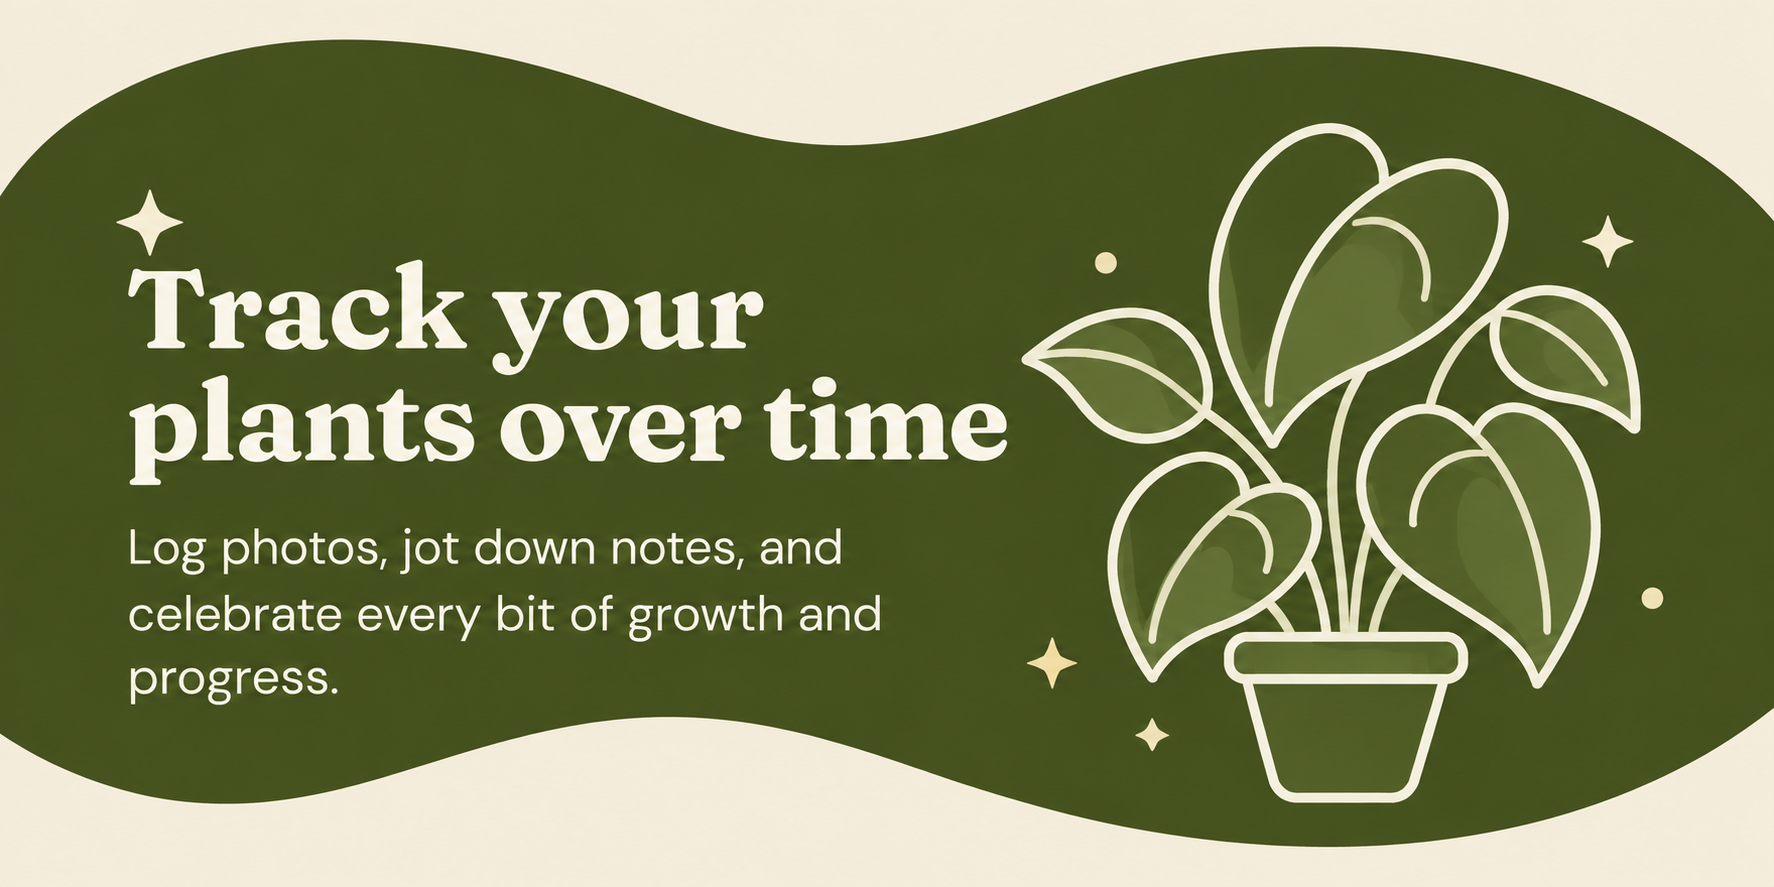
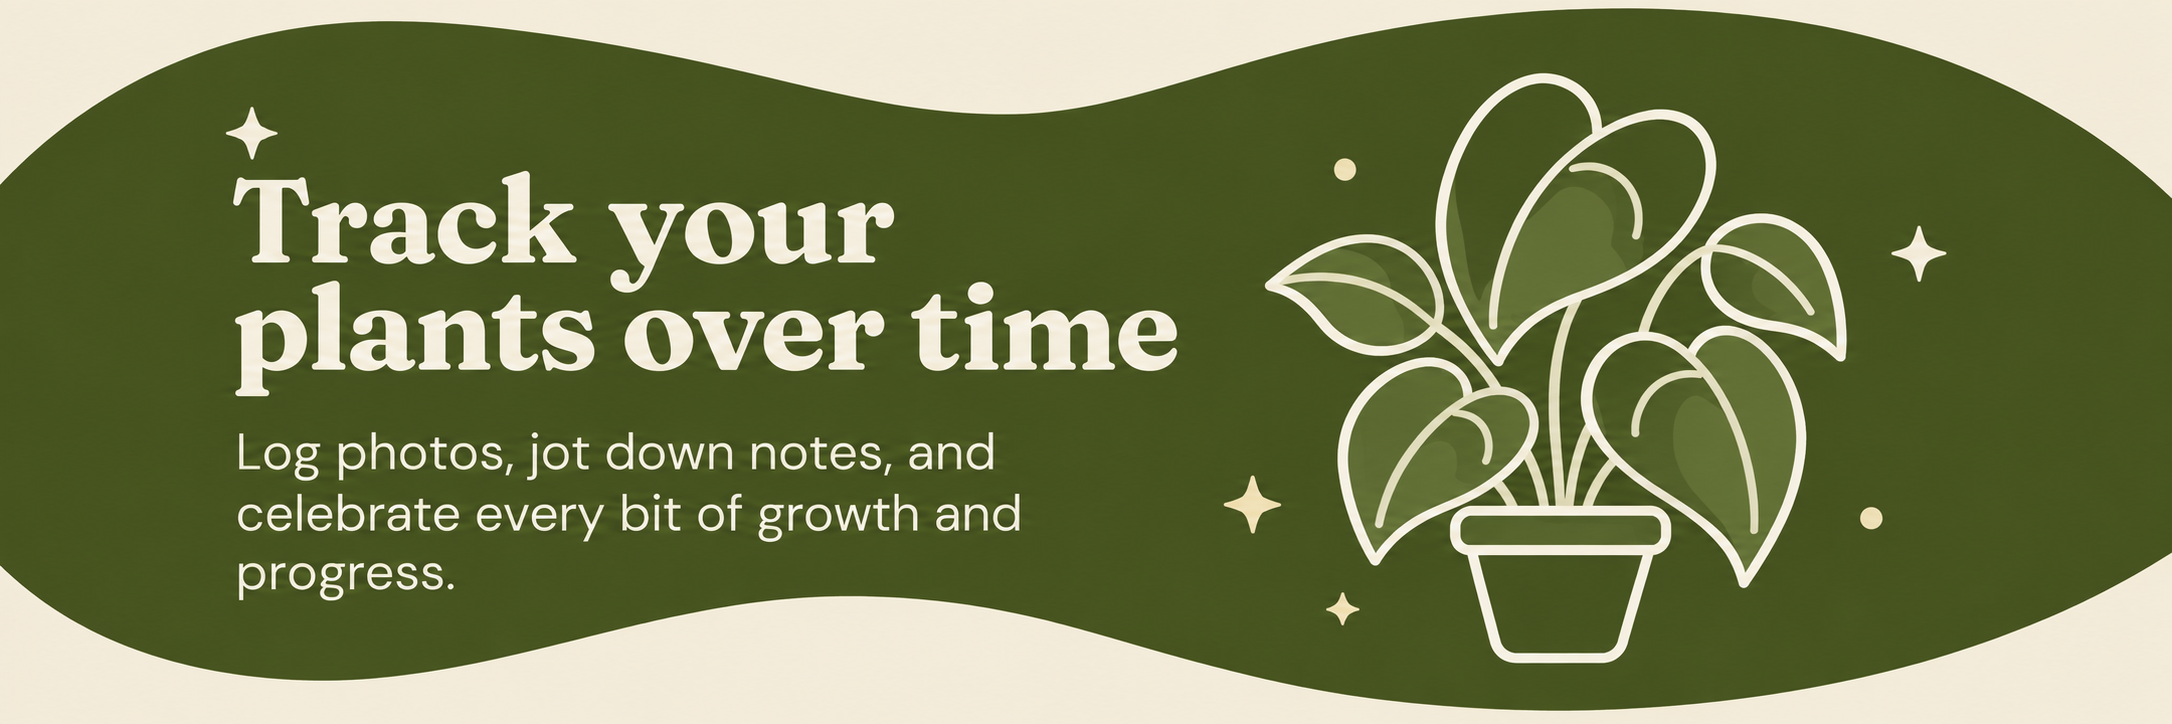
Add files via upload

diff --git a/index.html b/index.html
@@ -14,8 +14,8 @@
 <link rel="manifest" href="manifest.webmanifest">
 <link rel="apple-touch-icon" href="icon-192.png">
 
-<script src="cache-cleaner.js?v=10"></script>
-<link rel="stylesheet" href="style.css?v=10">
+<script src="cache-cleaner.js?v=11"></script>
+<link rel="stylesheet" href="style.css?v=11">
 </head>
 <body>
 <div class="app-shell">
@@ -27,13 +27,13 @@
 <main>
 <section id="homeView" class="view active page">
   <div class="home-banner-wrap">
-    <img class="home-banner-image" src="home-banner.png?v=10" alt="Track your plants over time — Log photos, jot down notes, and celebrate every bit of growth and progress.">
+    <img class="home-banner-image" src="home-banner.png?v=11" alt="Track your plants over time — Log photos, jot down notes, and celebrate every bit of growth and progress.">
   </div>
 
   <div class="stats">
-    <div class="stat"><div class="stat-icon"><img src="stat-plants.png?v=10" alt=""></div><strong id="statPlants">0</strong><span>Plants</span></div>
-    <div class="stat"><div class="stat-icon"><img src="stat-props.png?v=10" alt=""></div><strong id="statProps">0</strong><span>Props</span></div>
-    <div class="stat"><div class="stat-icon"><img src="stat-rooted.png?v=10" alt=""></div><strong id="statRooted">0</strong><span>Rooted</span></div>
+    <div class="stat"><div class="stat-icon"><img src="stat-plants.png?v=11" alt=""></div><strong id="statPlants">0</strong><span>Plants</span></div>
+    <div class="stat"><div class="stat-icon"><img src="stat-props.png?v=11" alt=""></div><strong id="statProps">0</strong><span>Props</span></div>
+    <div class="stat"><div class="stat-icon"><img src="stat-rooted.png?v=11" alt=""></div><strong id="statRooted">0</strong><span>Rooted</span></div>
   </div>
 
   <div class="section-head"><h3>Recently growing</h3><button class="text-btn" data-go="plantsView">See all ›</button></div>
@@ -56,7 +56,7 @@
 
 <section id="plantsView" class="view page">
   <div class="page-banner-wrap plants-banner-wrap">
-    <img class="page-banner-image" src="plants-banner.png?v=10" alt="Plant collection — All your plants in one happy place. Browse, search, and keep them thriving.">
+    <img class="page-banner-image" src="plants-banner.png?v=11" alt="Plant collection — All your plants in one happy place. Browse, search, and keep them thriving.">
   </div>
   <div class="banner-search">
     <div class="search"><span>⌕</span><input id="plantSearch" placeholder="Search your plants"></div>
@@ -70,117 +70,8 @@
 </section>
 
 <section id="propsView" class="view page">
-  <div class="hero-wave page-hero props-hero">
-<svg class="hero-art" viewBox="0 0 430 320" preserveAspectRatio="none" aria-hidden="true">
-  <defs>
-    <clipPath id="heroClip">
-      <path d="
-        M0,58
-        C55,27 104,34 150,52
-        C199,71 244,64 286,44
-        C333,21 369,35 430,75
-        L430,250
-        C387,274 343,274 300,264
-        C250,252 207,245 164,251
-        C112,258 66,286 0,305
-        Z"/>
-    </clipPath>
-  </defs>
-
-  <path class="hero-blob" d="
-    M0,58
-    C55,27 104,34 150,52
-    C199,71 244,64 286,44
-    C333,21 369,35 430,75
-    L430,250
-    C387,274 343,274 300,264
-    C250,252 207,245 164,251
-    C112,258 66,286 0,305
-    Z"/>
-
-  <g clip-path="url(#heroClip)">
-    <path class="rainbow r1" d="
-      M278,30
-      C326,28 357,47 381,70
-      C401,90 416,96 438,101
-      L438,145
-      C405,137 381,123 357,99
-      C335,77 317,68 293,66
-      C278,65 268,68 258,73
-      C264,57 271,42 278,30 Z"/>
-    <path class="rainbow r2" d="
-      M304,33
-      C338,38 363,54 385,75
-      C403,92 418,99 438,103
-      L438,133
-      C413,127 395,116 376,98
-      C357,79 340,70 319,68
-      C308,67 300,69 292,72
-      C297,58 301,45 304,33 Z"/>
-    <path class="rainbow r3" d="
-      M330,40
-      C355,46 374,59 392,77
-      C408,93 421,99 438,103
-      L438,124
-      C420,119 406,111 391,96
-      C376,81 362,74 346,71
-      C338,70 331,71 324,73
-      C326,61 328,50 330,40 Z"/>
-    <path class="rainbow r4" d="
-      M355,48
-      C373,55 388,65 401,79
-      C413,91 425,98 438,102
-      L438,116
-      C424,111 414,104 403,93
-      C391,81 381,76 368,73
-      C362,72 357,73 352,74
-      C353,65 354,56 355,48 Z"/>
-  </g>
-
-  <g class="hero-flower" transform="translate(340 205)">
-    <ellipse rx="12" ry="31" transform="rotate(0) translate(0 -26)"/>
-    <ellipse rx="12" ry="31" transform="rotate(45) translate(0 -26)"/>
-    <ellipse rx="12" ry="31" transform="rotate(90) translate(0 -26)"/>
-    <ellipse rx="12" ry="31" transform="rotate(135) translate(0 -26)"/>
-    <ellipse rx="12" ry="31" transform="rotate(180) translate(0 -26)"/>
-    <ellipse rx="12" ry="31" transform="rotate(225) translate(0 -26)"/>
-    <ellipse rx="12" ry="31" transform="rotate(270) translate(0 -26)"/>
-    <ellipse rx="12" ry="31" transform="rotate(315) translate(0 -26)"/>
-    <circle r="18" class="flower-center"/>
-  </g>
-
-  <g class="hero-sparkles">
-    <path d="M46 106 l3 8 8 3-8 3-3 8-3-8-8-3 8-3z"/>
-    <circle cx="258" cy="151" r="3"/>
-    <circle cx="291" cy="216" r="3"/>
-    <path d="M392 240 l3 8 8 3-8 3-3 8-3-8-8-3 8-3z"/>
-  </g>
-</svg>
-
-    <div class="hero-visual props-visual" aria-hidden="true">
-      <svg viewBox="0 0 220 180">
-        <rect class="surface" x="16" y="136" width="188" height="10" rx="5"/>
-        <g class="jar-group">
-          <rect class="jar rim" x="36" y="44" width="66" height="16" rx="8"/>
-          <path class="jar glass" d="M42 56 H96 L92 133 Q91 144 80 144 H58 Q47 144 46 133 Z"/>
-          <path class="water" d="M47 102 H91 L89 132 Q88 139 80 139 H58 Q50 139 49 132 Z"/>
-          <path class="root" d="M67 86 C65 98 68 110 65 122 M74 88 C78 98 76 112 80 126 M59 92 C55 101 56 113 60 124"/>
-          <path class="stem" d="M70 46 C70 61 70 74 69 87"/>
-          <path class="leaf" d="M57 54 C68 42 84 43 90 56 C95 67 88 79 76 80 C62 81 51 70 52 60 C53 58 54 56 57 54 Z"/>
-        </g>
-        <g class="cup-group">
-          <ellipse class="cup top" cx="157" cy="64" rx="28" ry="8"/>
-          <path class="cup body" d="M129 64 H185 L178 133 Q177 142 166 142 H148 Q137 142 136 133 Z"/>
-          <path class="moss" d="M137 93 C143 84 149 89 154 95 C160 85 166 89 170 95 C175 87 181 90 183 99 V133 H141 Z"/>
-          <path class="sprout stem" d="M158 95 C157 84 159 73 164 64"/>
-          <path class="sprout leaf1" d="M149 76 C158 71 167 74 170 82 C163 86 155 85 149 76 Z"/>
-          <path class="sprout leaf2" d="M165 69 C173 64 181 66 185 74 C177 78 170 77 165 69 Z"/>
-        </g>
-      </svg>
-    </div>
-    <div class="sparkles">✦ ✦</div>
-    <h2>Propagation station</h2>
-    <p>Grow new roots, grow your collection.</p>
+  <div class="page-banner-wrap props-banner-wrap">
+    <img class="page-banner-image" src="props-banner.png?v=11" alt="Propagation station — Follow every cutting from snip to new plant.">
   </div>
   <div class="controls" id="propFilters">
     <button class="chip active" data-filter="all">All</button>
@@ -195,44 +86,8 @@
 
 
 <section id="tcView" class="view page">
-  <div class="hero-wave page-hero tc-hero">
-    <svg class="hero-art" viewBox="0 0 430 320" preserveAspectRatio="none" aria-hidden="true">
-      <path class="hero-blob" d="M0,58 C55,27 104,34 150,52 C199,71 244,64 286,44 C333,21 369,35 430,75 L430,250 C387,274 343,274 300,264 C250,252 207,245 164,251 C112,258 66,286 0,305 Z"/>
-      <g class="hero-flower" transform="translate(340 205)">
-        <ellipse rx="12" ry="31" transform="rotate(0) translate(0 -26)"/><ellipse rx="12" ry="31" transform="rotate(45) translate(0 -26)"/>
-        <ellipse rx="12" ry="31" transform="rotate(90) translate(0 -26)"/><ellipse rx="12" ry="31" transform="rotate(135) translate(0 -26)"/>
-        <ellipse rx="12" ry="31" transform="rotate(180) translate(0 -26)"/><ellipse rx="12" ry="31" transform="rotate(225) translate(0 -26)"/>
-        <ellipse rx="12" ry="31" transform="rotate(270) translate(0 -26)"/><ellipse rx="12" ry="31" transform="rotate(315) translate(0 -26)"/>
-        <circle r="18" class="flower-center"/>
-      </g>
-    </svg>
-    <div class="hero-visual tc-visual" aria-hidden="true">
-      <svg viewBox="0 0 220 180">
-        <g class="agar-cup">
-          <ellipse class="cup top" cx="58" cy="60" rx="26" ry="8"/>
-          <path class="cup body" d="M32 60 H84 L80 116 Q79 126 69 126 H47 Q37 126 36 116 Z"/>
-          <path class="agar" d="M37 102 C46 98 56 101 65 96 C72 93 76 93 79 94 V115 Q78 121 70 121 H48 Q40 121 39 115 Z"/>
-          <path class="tc-sprout" d="M56 98 C55 86 57 75 62 68"/>
-          <path class="tc-leaf1" d="M46 79 C55 73 63 76 66 84 C58 88 50 87 46 79 Z"/>
-          <path class="tc-leaf2" d="M60 73 C68 67 76 69 80 78 C72 81 65 80 60 73 Z"/>
-        </g>
-        <g class="dome">
-          <rect class="tray" x="108" y="116" width="86" height="20" rx="10"/>
-          <path class="dome-cover" d="M114 116 C116 82 132 58 151 58 H165 C184 58 199 82 201 116 Z"/>
-          <rect class="cell" x="122" y="95" width="20" height="22" rx="6"/>
-          <rect class="cell" x="146" y="95" width="20" height="22" rx="6"/>
-          <rect class="cell" x="170" y="95" width="20" height="22" rx="6"/>
-          <path class="mini-leaf" d="M130 106 C134 99 141 101 143 108 C137 111 133 111 130 106 Z"/>
-          <path class="mini-leaf" d="M154 106 C158 99 165 101 167 108 C161 111 157 111 154 106 Z"/>
-          <path class="mini-leaf" d="M178 106 C182 99 189 101 191 108 C185 111 181 111 178 106 Z"/>
-          <circle class="dew" cx="128" cy="78" r="3"/>
-          <circle class="dew" cx="158" cy="70" r="3"/>
-          <circle class="dew" cx="182" cy="84" r="3"/>
-        </g>
-      </svg>
-    </div>
-    <h2>Tissue culture lab</h2>
-    <p>Track each plant from flask to fully acclimated.</p>
+  <div class="page-banner-wrap tc-banner-wrap">
+    <img class="page-banner-image" src="tc-banner.png?v=11" alt="Tissue culture lab — Track each plant from flask to fully acclimated.">
   </div>
   <div class="tc-summary">
     <div><strong id="tcTotal">0</strong><span>Total</span></div>
@@ -251,7 +106,7 @@
 
 <section id="growthView" class="view page">
   <div class="page-banner-wrap growth-banner-wrap">
-    <img class="page-banner-image" src="growth-banner.png?v=10" alt="Growth timeline — A visual journey of your plant’s progress over time.">
+    <img class="page-banner-image" src="growth-banner.png?v=11" alt="Growth timeline — A visual journey of your plant’s progress over time.">
   </div>
   <div id="timelineList" class="timeline"></div>
   <div class="quote">Every leaf tells a story.</div>
@@ -261,11 +116,11 @@
 </main>
 
 <nav class="bottom-nav">
-  <button class="nav-item active" data-view="homeView"><span class="nav-icon"><img src="nav-home.png?v=10" alt=""></span><span class="nav-label">Home</span></button>
-  <button class="nav-item" data-view="plantsView"><span class="nav-icon"><img src="nav-plants.png?v=10" alt=""></span><span class="nav-label">Plants</span></button>
-  <button class="nav-item" data-view="propsView"><span class="nav-icon"><img src="nav-props.png?v=10" alt=""></span><span class="nav-label">Props</span></button>
-  <button class="nav-item" data-view="tcView"><span class="nav-icon"><img src="nav-tc.png?v=10" alt=""></span><span class="nav-label">TC</span></button>
-  <button class="nav-item" data-view="growthView"><span class="nav-icon"><img src="nav-growth.png?v=10" alt=""></span><span class="nav-label">Growth</span></button>
+  <button class="nav-item active" data-view="homeView"><span class="nav-icon"><img src="nav-home.png?v=11" alt=""></span><span class="nav-label">Home</span></button>
+  <button class="nav-item" data-view="plantsView"><span class="nav-icon"><img src="nav-plants.png?v=11" alt=""></span><span class="nav-label">Plants</span></button>
+  <button class="nav-item" data-view="propsView"><span class="nav-icon"><img src="nav-props.png?v=11" alt=""></span><span class="nav-label">Props</span></button>
+  <button class="nav-item" data-view="tcView"><span class="nav-icon"><img src="nav-tc.png?v=11" alt=""></span><span class="nav-label">TC</span></button>
+  <button class="nav-item" data-view="growthView"><span class="nav-icon"><img src="nav-growth.png?v=11" alt=""></span><span class="nav-label">Growth</span></button>
 </nav>
 
 <dialog id="plantDialog" class="sheet">
@@ -355,7 +210,7 @@
 </form>
 </dialog>
 
-<script src="app.js?v=10"></script>
+<script src="app.js?v=11"></script>
 </div>
 </body>
 </html>

diff --git a/style.css b/style.css
@@ -860,3 +860,7 @@ input,select,textarea{width:100%;margin-top:6px;padding:12px;border-radius:12px;
 .stat-icon,.stat:nth-child(2) .stat-icon,.stat:nth-child(3) .stat-icon{background:transparent!important;border:0!important;box-shadow:none!important}
 .stat-icon img{background:transparent!important;border:0!important;box-shadow:none!important}
 @media(max-width:520px){.home-banner-wrap{margin-left:-16px;margin-right:-16px}.bottom-nav .nav-icon,.bottom-nav .nav-item .nav-icon{width:44px!important;height:44px!important}.bottom-nav .nav-icon img{width:38px!important;height:38px!important}}
+
+/* v11 coordinated section banners */
+.page-banner-wrap,.home-banner-wrap{margin:0 -16px 0;overflow:hidden;background:var(--cream)}
+.page-banner-image,.home-banner-image{display:block;width:100%;height:auto;object-fit:cover}
